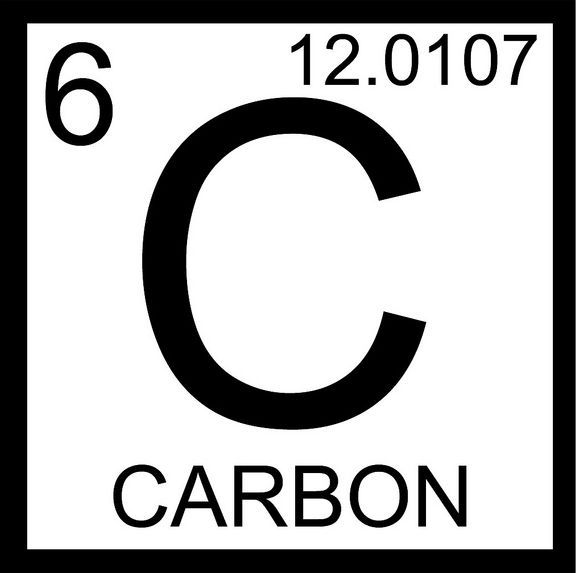
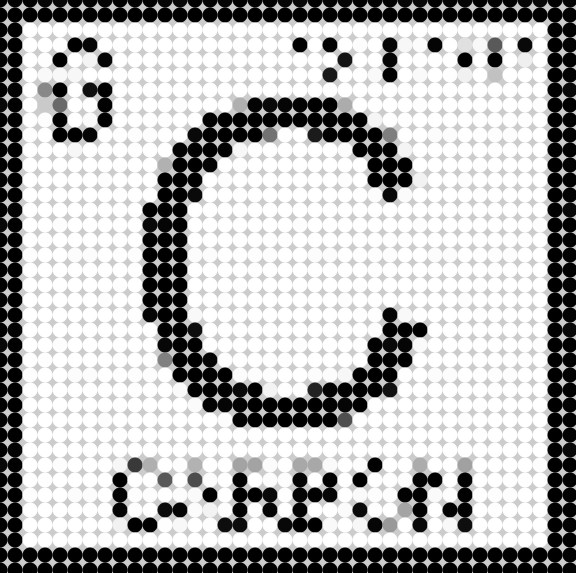
Fixing processing templates

Changed region(s): [[0.0, 0.0, 1.0, 1.0]]

diff --git a/processing_handler/processing_sketches/template_circle.py b/processing_handler/processing_sketches/template_circle.py
@@ -1,0 +1,23 @@
+
+def setup():
+    global img
+    img = loadImage("../media/preprocessed/preprocessed.jpg")
+    this.surface.setSize(img.width, img.height)
+    #global output
+    #output = createWriter("positions.txt")
+
+
+def draw():
+    colorMode(HSB, 360, 100, 100)
+    for y in range(0, img.height, 15):
+        for x in range(0, img.width, 15):
+            c = img.get(x, y)
+            fill(c)
+            noStroke()
+            ellipse(x, y, 15, 15)
+
+
+    #createGraphics(img.width, img.height)
+    save("../../media/processed/processed.png")
+    noLoop()
+    exit()

diff --git a/processing_handler/processing_handler.py b/processing_handler/processing_handler.py
@@ -14,6 +14,6 @@ class P5:
             return e
 
 
-if __name__ == "__main__":
-    run = P5()
-    run.run_sketch("mouse")
+# if __name__ == "__main__":
+#     run = P5()
+#     run.run_sketch("mouse")
